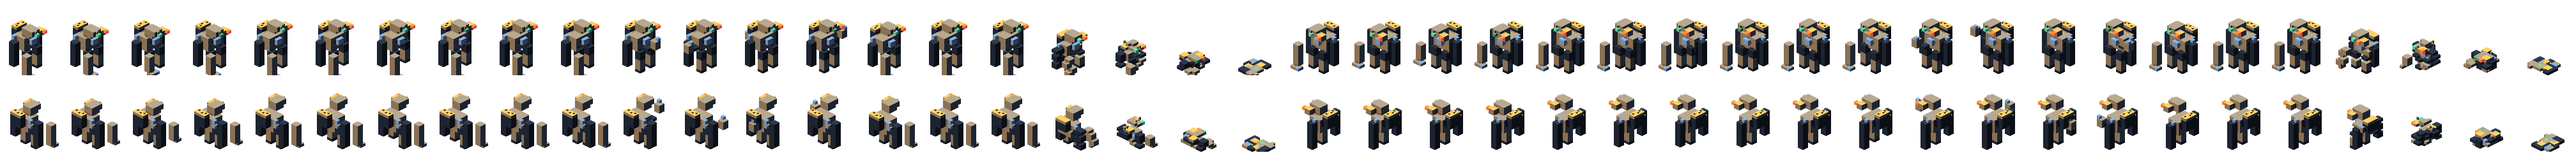
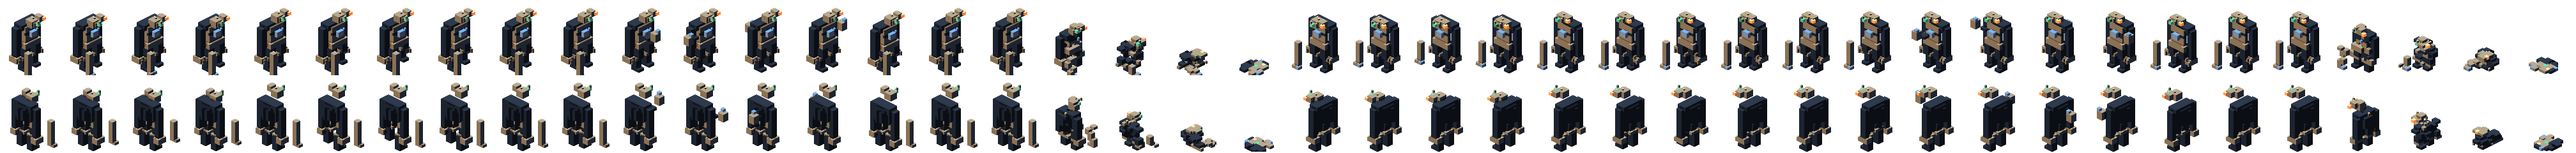
Rework do Miner e os quatro achados do review da fauna
MINER (EX-016): o sprite estava difuso — todas as pecas certas (lampada,
veias, tremonha, bracos longos, picareta) e mesmo assim lia como amontoado
de caixas bege. Duas tentativas ensinaram o porque, e as duas licoes ficam
documentadas no modelo:

1. Nao existe volume largo e baixo. Uma laje mostra so a face de topo na
   isometrica e vira a maior mancha chapada da tela — foi o "telhado" em que
   a primeira versao do manto se transformou, cobrindo a cabeca. Roupa aqui
   e feita de FIOS VERTICAIS, como a cortina do Bispo.
2. O centro do corpo e CLARO e as pontas sao escuras. A segunda tentativa
   fez o contrario e ficou pior: o meio sumia no fundo e braco, perna e
   cabeca flutuavam soltos. A figura precisa de UMA massa continua, e ela
   tem de ser a mais clara — o resto pendura nela.

Resultado: coluna de latao (quadril->torso->cabeca), manto escuro
emoldurando os ombros, membros escuros, e os acentos com endereco —
lampada `lamp` que EMITE, veia reativa azul no peito, minerio na tremonha.

ACHADOS DO REVIEW (todos procedem):
- P1 gas do Bombardeiro nao acendia perto de brasa: `explodeAt` roda ANTES
  de a nuvem existir e brasa nao propaga sozinha para o gas do tick
  seguinte. O calor e medido antes de pintar (celula com brasa nao aceita
  gas por cima) e a nuvem acende por uma celula — o resto e a propagacao
  normal, que ja e orcada.
- P1 arrasto diagonal deslizava: parar so quando os DOIS eixos travam fazia
[…]

Changed region(s): [[0.0, 0.5542, 1.0, 0.9917], [0.0, 0.0583, 1.0, 0.4958]]

diff --git a/packages/voxelyn-survival-sim/src/entities.ts b/packages/voxelyn-survival-sim/src/entities.ts
@@ -310,10 +310,26 @@ const addBomberSpores = (state: SurvivalState, ent: Entity): void => {
  * So pinta chao NU: gas por cima de fogo aceso seria uma explosao decidida
  * pela ordem de iteracao, e por cima de agua ou gelo seria quimica inventada.
  */
-const addSulfurCloud = (state: SurvivalState, ent: Entity): void => {
+const addSulfurCloud = (state: SurvivalState, ent: Entity, events: SemanticEvent[]): void => {
   const cx = Math.floor(ent.x);
   const cy = Math.floor(ent.y);
   const r = SULFUR_BOMBER_GAS_RADIUS;
+  const laid: number[] = [];
+  // O calor ja presente na vizinhanca decide o destino da nuvem, e por isso e
+  // medido ANTES de ela existir: brasa e fogo nao aceitam gas por cima (a
+  // celula ja esta ocupada), entao procurar a faisca depois de pintar acharia
+  // apenas as celulas que o gas nao pode ter tomado.
+  let heat = -1;
+  for (let dy = -r - 1; dy <= r + 1; dy++) {
+    for (let dx = -r - 1; dx <= r + 1; dx++) {
+      const x = cx + dx;
+      const y = cy + dy;
+      if (x < 0 || y < 0 || x >= state.config.width || y >= state.config.height) continue;
+      const i = y * state.config.width + x;
+      const surf = state.surface[i];
+      if (surf === SURF_EMBER || surf === SURF_FIRE) heat = i;
+    }
+  }
   for (let dy = -r; dy <= r; dy++) {
     for (let dx = -r; dx <= r; dx++) {
       if (dx * dx + dy * dy > r * r) continue;
@@ -323,8 +339,18 @@ const addSulfurCloud = (state: SurvivalState, ent: Entity): void => {
       const i = y * state.config.width + x;
       if (state.solid[i] === SOLID_NONE && state.surface[i] === SURF_NONE) {
         setSurface(state, i, SURF_GAS, SULFUR_BOMBER_GAS_LIFE_TICKS);
+        laid.push(i);
       }
     }
+  }
+  // E se havia calor, a nuvem ACENDE — que e a razao inteira de o bicho existir
+  // na Fornalha. Sem esta passagem a promessa nao se cumpria: a explosao roda
+  // ANTES de a nuvem ser depositada (ela nasce da morte, e a morte e o que
+  // detona), e uma fissura de brasa nao propaga fogo sozinha para o gas que
+  // apareceu no tick seguinte. A ignicao entra por uma celula so: o resto e a
+  // propagacao normal do fogo, que ja existe e ja e orcada.
+  if (heat >= 0 && laid.length > 0) {
+    igniteCell(state, laid[0], events);
   }
 };
 
@@ -421,7 +447,7 @@ export const damageEntity = (
   // exatamente a corrente de reacoes que este bicho existe para provocar.
   if (ent.archetype === 'sulfur_bomber') {
     explodeAt(state, ent.x, ent.y, 1.8, events, { source: 'enemy', owner: ent.id });
-    addSulfurCloud(state, ent);
+    addSulfurCloud(state, ent, events);
   }
   // O MINER e o unico corpo do bestiario cuja morte vira JULGAMENTO, e por isso
   // e o unico que precisa saber QUEM o matou.
@@ -740,12 +766,14 @@ const releaseAction = (state: SurvivalState, enemy: Entity, events: SemanticEven
     const stop = enemy.radius + target.radius + 0.05;
     for (let s = 0; s < steps; s++) {
       if (distTo(enemy, target) <= stop) break; // chegou: nao empurra por dentro
-      const before = { x: target.x, y: target.y };
-      moveEntity(state, target, pull.x * UNDERTAKER_PULL_STEP, pull.y * UNDERTAKER_PULL_STEP);
-      // Bateu em alguma coisa: o arrasto acabou aqui. Continuar raspando na
-      // parede o resto dos passos gastaria a mesma distancia deslizando de
-      // lado, e o obstaculo deixaria de ser a protecao que ele e.
-      if (target.x === before.x && target.y === before.y) break;
+      const moved = moveEntity(state, target, pull.x * UNDERTAKER_PULL_STEP, pull.y * UNDERTAKER_PULL_STEP);
+      // Bateu em alguma coisa: o arrasto acabou aqui — e basta UM DOS EIXOS
+      // travar. Testar "nao saiu do lugar" (os dois eixos juntos) era um erro
+      // silencioso em toda diagonal: com a parede segurando so o X, o passo
+      // continuava valendo pelo Y e o jogador era arrastado RASPANDO na
+      // parede, contornando obstaculo curto ate o colo do Coveiro. A quina
+      // deixava de ser protecao justamente no caso comum.
+      if (moved.blockedX || moved.blockedY) break;
     }
     // O rastro do campo, para o cliente desenhar o feixe entre os dois.
     events.push({ t: 'pulse', x: target.x, y: target.y, radius: 1.2 });

diff --git a/packages/voxelyn-survival-sim/tests/fauna-por-bioma.test.ts b/packages/voxelyn-survival-sim/tests/fauna-por-bioma.test.ts
@@ -14,12 +14,15 @@ import {
   SECTOR_COUNT,
   SOLID_NONE,
   SOLID_ROCK,
+  SURF_EMBER,
+  SURF_FIRE,
   SURF_GAS,
   SURF_NONE,
   SURF_SPORES,
   UNDERTAKER_PULL_COOLDOWN_TICKS,
   UNDERTAKER_PULL_WINDUP_TICKS,
 } from '../src/constants';
+import { setSurface } from '../src/cells';
 import { damageEntity, spawnEnemy, updateEnemies } from '../src/entities';
 import { createRun, emptyCommand, stepRun } from '../src/run';
 import { lineageOf } from '../src/strata';
@@ -111,6 +114,42 @@ describe('Bombardeiro de Enxofre', () => {
     expect(spores, 'esporo nao pertence a este bicho').toBe(0);
   });
 
+  it('morrer perto de BRASA acende a nuvem — a promessa da Fornalha', () => {
+    // A interacao que justifica o bicho existir. A explosao roda ANTES de a
+    // nuvem ser depositada (ela nasce da morte), e uma fissura de brasa nao
+    // propaga fogo sozinha para o gas que apareceu no tick seguinte: sem a
+    // ignicao explicita, "matar perto da brasa acende a sala" nao acontecia.
+    const state = arena(11);
+    setSurface(state, at(state, 29, 25), SURF_EMBER, 600);
+    const bomber = spawnEnemy(state, 'sulfur_bomber', 32, 25, false);
+    damageEntity(state, bomber, bomber.maxHp * 2, [], { kind: 'player_shot' });
+
+    let fire = 0;
+    for (let y = 22; y <= 28; y++) {
+      for (let x = 28; x <= 36; x++) {
+        if (state.surface[at(state, x, y)] === SURF_FIRE) fire++;
+      }
+    }
+    expect(fire, 'a nuvem nao acendeu ao lado da brasa').toBeGreaterThan(0);
+  });
+
+  it('longe de qualquer calor a nuvem SO fica: gas nao acende sozinho', () => {
+    const state = arena(11);
+    const bomber = spawnEnemy(state, 'sulfur_bomber', 32, 25, false);
+    damageEntity(state, bomber, bomber.maxHp * 2, [], { kind: 'player_shot' });
+    let fire = 0;
+    let gas = 0;
+    for (let y = 22; y <= 28; y++) {
+      for (let x = 29; x <= 35; x++) {
+        const surf = state.surface[at(state, x, y)];
+        if (surf === SURF_FIRE) fire++;
+        if (surf === SURF_GAS) gas++;
+      }
+    }
+    expect(gas).toBeGreaterThan(0);
+    expect(fire, 'gas pegou fogo sem faisca nenhuma').toBe(0);
+  });
+
   it('o Spore Bomber continua deixando esporo: sao bichos diferentes', () => {
     const state = arena(11);
     const bomber = spawnEnemy(state, 'bomber', 32, 25, false);
@@ -188,6 +227,27 @@ describe('Coveiro', () => {
     // Puxou (saiu de 38,5) e PAROU na parede, em vez de atravessa-la.
     expect(state.player.x, 'o eletroima nem chegou a puxar').toBeLessThan(38.4);
     expect(state.player.x, 'atravessou o pilar').toBeGreaterThan(35.5);
+  });
+
+  it('parede em UM EIXO ja segura o arrasto diagonal', () => {
+    // O caso comum, e o que o teste do pilar frontal nao pegava: na diagonal,
+    // `moveEntity` avanca o eixo livre quando so o outro trava. Checar "nao
+    // saiu do lugar" deixava o jogador RASPANDO na parede ate contornar o
+    // obstaculo — a quina deixava de proteger justamente onde ela existe.
+    const state = arena(21);
+    state.player.x = 37.5;
+    state.player.y = 28.5; // diagonal em relacao ao Coveiro
+    const undertaker = spawnEnemy(state, 'undertaker', 32, 25, false);
+    runHaul(state, 2);
+    expect(undertaker.action?.kind).toBe('haul');
+    // Parede vertical entre os dois, depois de o eletroima engatar.
+    for (let y = 24; y <= 30; y++) state.solid[at(state, 35, y)] = SOLID_ROCK;
+    const beforeY = state.player.y;
+
+    runHaul(state, UNDERTAKER_PULL_WINDUP_TICKS + 4);
+    expect(state.player.x, 'atravessou a parede').toBeGreaterThan(35.5);
+    // E parou: nao deslizou pelo eixo livre ate contornar o obstaculo.
+    expect(Math.abs(state.player.y - beforeY), 'raspou na parede').toBeLessThan(1);
   });
 
   it('a prensa vem depois do puxao, com telegrafo proprio', () => {

diff --git a/packages/voxelyn-survival-sim/src/run.ts b/packages/voxelyn-survival-sim/src/run.ts
@@ -1493,7 +1493,13 @@ const stepProjectiles = (state: SurvivalState, events: SemanticEvent[]): void =>
           // Detonar um Portador conta como estouro para quem o abateu, mesmo que
           // a explosao em si nasca com `source: 'enemy'`. O que a ressonancia
           // registra e a DECISAO do jogador — ele escolheu matar aquilo de perto.
-          if (enemy.archetype === 'bomber' && !enemy.alive) {
+          // Vale para os DOIS bombardeiros: a decisao do jogador e a mesma
+          // (matar aquilo de perto), e a Fenda e a Fornalha — onde so nasce o
+          // de enxofre — sao justamente biomas de afinidade com explosao.
+          if (
+            (enemy.archetype === 'bomber' || enemy.archetype === 'sulfur_bomber') &&
+            !enemy.alive
+          ) {
             recordPlayerResonance(state, proj.owner, 'blast');
           }
           if (proj.kind === 'seeker') {

diff --git a/packages/voxelyn-survival-protocol/src/death-echo.ts b/packages/voxelyn-survival-protocol/src/death-echo.ts
@@ -151,6 +151,11 @@ const ENEMY_ARCHETYPES = new Set<EnemyArchetype>([
   'bellows',
   'scoriac',
   'frost_wraith',
+  // Fauna afinada por bioma. Os dois causam dano de CONTATO (o Coveiro ainda
+  // por cima com a prensa), entao os dois produzem capsula de morte — e uma
+  // capsula que a matriz fechada rejeita vira Eco perdido em silencio.
+  'sulfur_bomber',
+  'undertaker',
 ]);
 const PROJECTILE_KINDS = new Set<ProjectileKind>(['bolt', 'spit', 'rock', 'return_disc', 'cart']);
 const isEnemyArchetype = (value: unknown): value is EnemyArchetype =>
